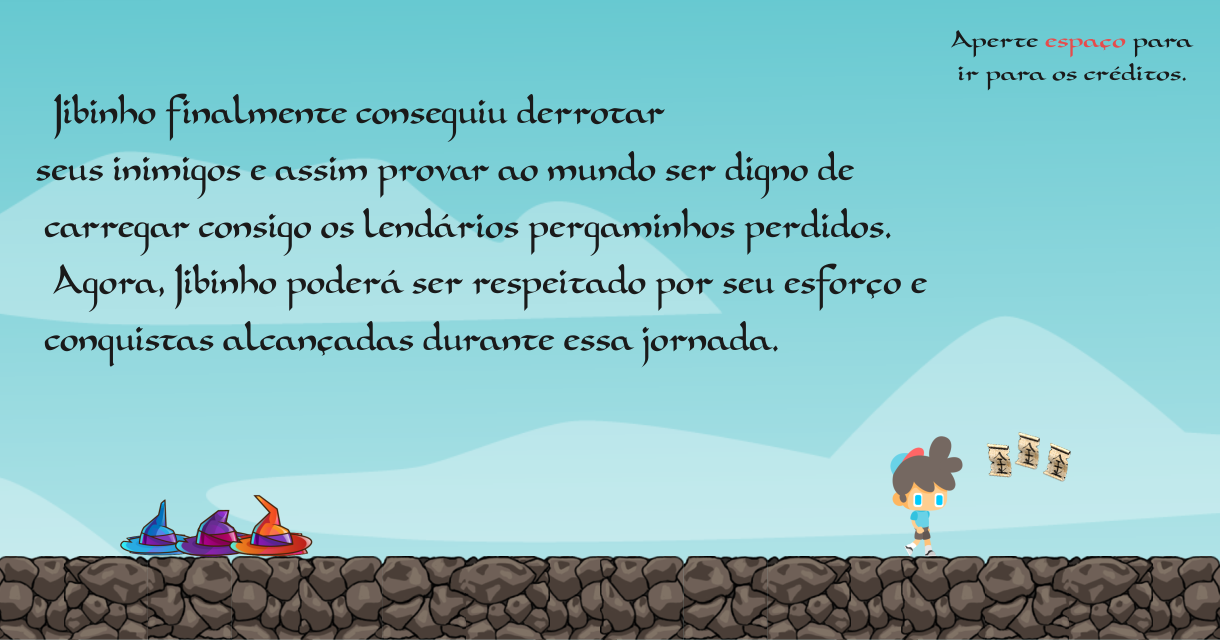
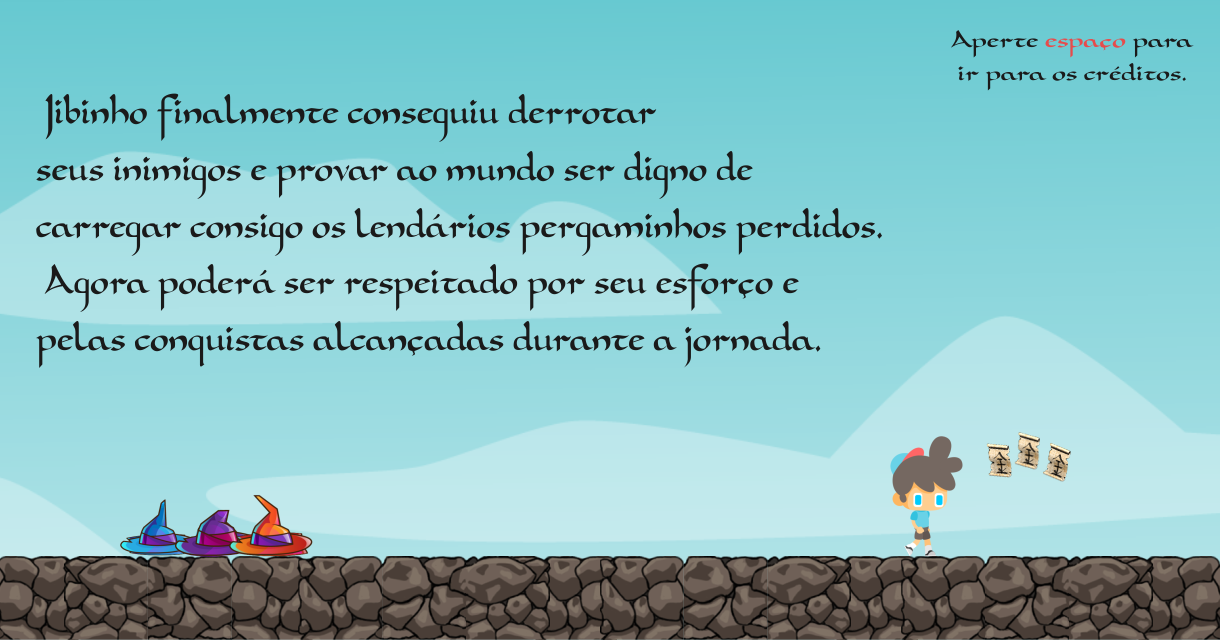
adicao das cenas que faltavam e mudancas nos textos

diff --git a/Game/src/scenes/intro.ts b/Game/src/scenes/intro.ts
@@ -1,13 +1,14 @@
-import { Input } from 'phaser';
-import { Loader } from '../../core/loader';
+import { Loader } from '../core/loader';
+import { AUTO, Input } from 'phaser';
 
 
-export default class SecondStageEndScene extends Phaser.Scene {
+export default class IntroScene extends Phaser.Scene {
+
+    public cursorKeys: Input.Keyboard.CursorKeys;
+
     public constructor(key) {
         super(key);
     }
-
-    public cursorKeys: Input.Keyboard.CursorKeys;
 
     public init() {
 
@@ -16,13 +17,15 @@ export default class SecondStageEndScene extends Phaser.Scene {
     public preload() {
         new Loader(this.load);
     }
+
     public create() {
-        this.add.tileSprite(625, 320, 1250, 640, 'thirdStageEnd');
+        this.add.tileSprite(625, 320, 1250, 640, 'intro');
 
         this.cursorKeys = this.input.keyboard.createCursorKeys();
 
         this.cursorKeys.space.on('down', () => {
-            window.location.reload();
+            this.scene.start("Tutorial");
         });
+
     }
 }

diff --git a/Game/src/scenes/ends/end-game.ts b/Game/src/scenes/ends/end-game.ts
@@ -1,14 +1,13 @@
-import { Loader } from '../core/loader';
-import { AUTO, Input } from 'phaser';
+import { Input } from 'phaser';
+import { Loader } from '../../core/loader';
 
 
-export default class MainScreenScene extends Phaser.Scene {
-
-    public cursorKeys: Input.Keyboard.CursorKeys;
-
+export default class EndGame extends Phaser.Scene {
     public constructor(key) {
         super(key);
     }
+
+    public cursorKeys: Input.Keyboard.CursorKeys;
 
     public init() {
 
@@ -17,15 +16,13 @@ export default class MainScreenScene extends Phaser.Scene {
     public preload() {
         new Loader(this.load);
     }
-
     public create() {
-        this.add.tileSprite(625, 320, 1250, 640, 'main');
+        this.add.tileSprite(625, 320, 1250, 640, 'endgame');
 
         this.cursorKeys = this.input.keyboard.createCursorKeys();
 
         this.cursorKeys.space.on('down', () => {
-            this.scene.start("Intro");
+            this.scene.switch("CreditsScene");
         });
-
     }
 }

diff --git a/Game/src/scenes/credits.ts b/Game/src/scenes/credits.ts
@@ -1,14 +1,13 @@
 import { Loader } from '../core/loader';
-import { AUTO, Input } from 'phaser';
+import { Input } from 'phaser';
 
 
-export default class MainScreenScene extends Phaser.Scene {
-
-    public cursorKeys: Input.Keyboard.CursorKeys;
-
+export default class CreditsScene extends Phaser.Scene {
     public constructor(key) {
         super(key);
     }
+
+    public cursorKeys: Input.Keyboard.CursorKeys;
 
     public init() {
 
@@ -17,15 +16,13 @@ export default class MainScreenScene extends Phaser.Scene {
     public preload() {
         new Loader(this.load);
     }
-
     public create() {
-        this.add.tileSprite(625, 320, 1250, 640, 'main');
+        this.add.tileSprite(625, 320, 1250, 640, 'credits');
 
         this.cursorKeys = this.input.keyboard.createCursorKeys();
 
         this.cursorKeys.space.on('down', () => {
-            this.scene.start("Intro");
+            window.location.reload();
         });
-
     }
 }

diff --git a/Game/src/index.js b/Game/src/index.js
@@ -8,6 +8,9 @@ import SecondStage from './scenes/stages/second-stage-game';
 import ThirdStage from './scenes/stages/third-stage-game';
 import FirstStageEnd from './scenes/ends/first-stage-end';
 import SecondStageEnd from './scenes/ends/second-stage-end';
+import EndGame from './scenes/ends/end-game';
+import CreditsScene from './scenes/credits';
+import IntroScene from './scenes/intro';
 
 class Game extends Phaser.Game {
   constructor() {
@@ -21,9 +24,12 @@ class Game extends Phaser.Game {
     this.scene.add("ThirdStage", ThirdStage);
     this.scene.add("FirstStageEnd", FirstStageEnd);
     this.scene.add("SecondStageEnd", SecondStageEnd);
+    this.scene.add("CreditsScene", CreditsScene);
+    this.scene.add("EndGame", EndGame);
+    this.scene.add("Intro", IntroScene);
 
-    this.scene.start("ThirdStage");
-     //this.scene.start("Main");
+    // this.scene.start("ThirdStage");
+     this.scene.start("Main");
   }
 }
 

diff --git a/Game/src/assets/assets.js b/Game/src/assets/assets.js
@@ -30,6 +30,9 @@ import enemyHealthBarCaution from "./images/health_bar/enemyHealthBar-caution.pn
 import enemyHealthBarWaring from "./images/health_bar/enemyHealthBar-waring.png";
 import enemyHealthBarFine from "./images/health_bar/enemyHealthBar-fine.png";
 import stage1Parchment from "./images/parchments/scroll_metal_64.png";
+import endgame from "./images/scenes/end-game.png";
+import credits from "./images/scenes/credits.png";
+import intro from "./images/scenes/intro.png";
 
 export default {
     //scenes
@@ -42,6 +45,9 @@ export default {
     heart: heart,
     portalClosed: portalClosed,
     portalOpen: portalOpen,
+    intro:intro,
+    credits:credits,
+
 
     //mage healthbar
     enemyHealthBarDanger: enemyHealthBarDanger,
@@ -77,6 +83,8 @@ export default {
     jslogo: jslogo,
     stage3Bg: stage3Bg,
     redBlock:redBlock,
+    endgame:endgame,
+
 
 };
 

diff --git a/Game/src/core/loader.ts b/Game/src/core/loader.ts
@@ -36,6 +36,9 @@ export class Loader {
         loadPlugin.image("enemyHealthBarWaring", assets.enemyHealthBarWaring);
         loadPlugin.image("enemyHealthBarFine", assets.enemyHealthBarFine);
         loadPlugin.image("stage1Parchment", assets.stage1Parchment);
+        loadPlugin.image("endgame", assets.endgame);
+        loadPlugin.image("credits", assets.credits);
+        loadPlugin.image("intro", assets.intro);
 
         loadPlugin.atlas('player-walking', 'src/assets/images/hero/walk.png', 'src/assets/json/walk.json');
 

diff --git a/Game/src/scenes/stages/third-stage-game.ts b/Game/src/scenes/stages/third-stage-game.ts
@@ -96,7 +96,7 @@ export default class ThirdStage extends Phaser.Scene implements IStage {
     }
 
     private addStageItems(): void {
-        this.portal = new Portal(this, this.hero, 'SecondStage', 'SecondStageEnd')
+            this.portal = new Portal(this, this.hero, this.getStageName(), 'EndGame')
             .create(1180, 230, 'portalClosed')
             .withBlockColisor();
     }

diff --git a/Game/src/scenes/ends/second-stage-end.ts b/Game/src/scenes/ends/second-stage-end.ts
@@ -22,7 +22,7 @@ export default class SecondStageEndScene extends Phaser.Scene {
         this.cursorKeys = this.input.keyboard.createCursorKeys();
 
         this.cursorKeys.space.on('down', () => {
-            window.location.reload();
+            this.scene.switch("ThirdStage");
         });
     }
 }
